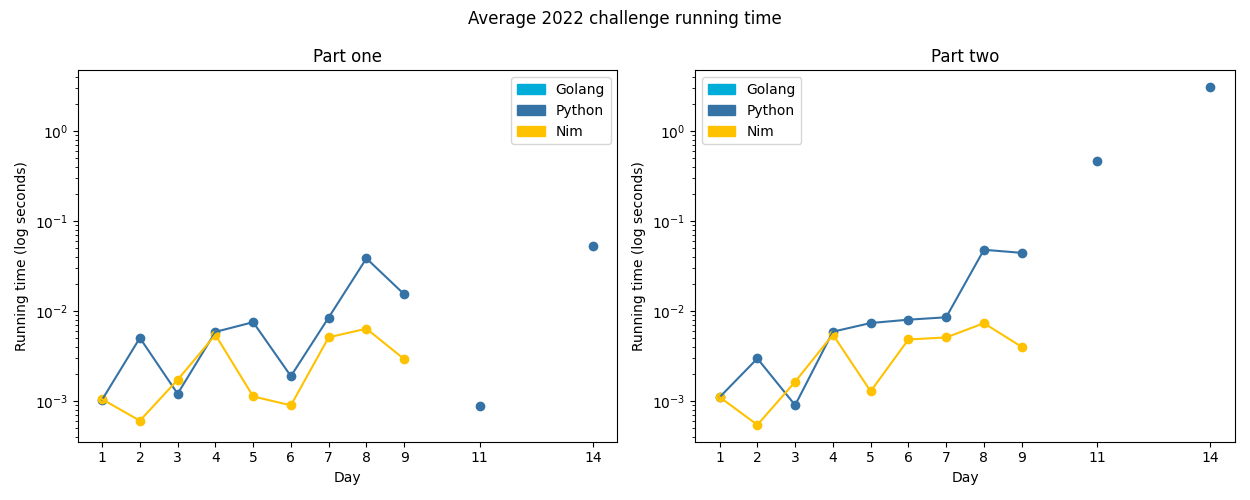
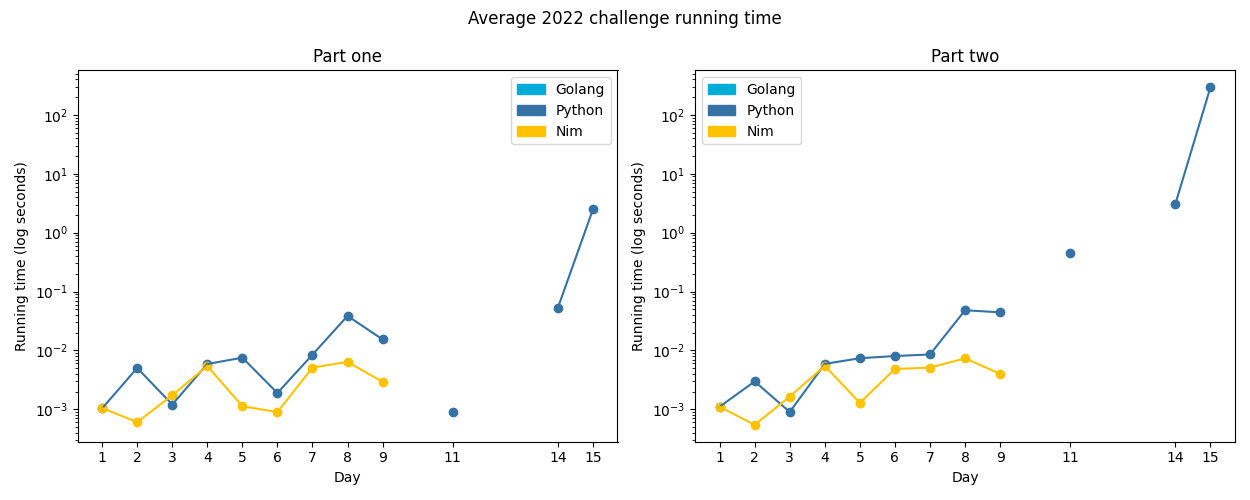
2022-15 py

diff --git a/challenges/2022/15-beaconExclusionZone/py/__init__.py b/challenges/2022/15-beaconExclusionZone/py/__init__.py
@@ -1,0 +1,143 @@
+from __future__ import annotations
+import sys
+from typing import *
+from aocpy import BaseChallenge, Vector, foldl
+import re
+from dataclasses import dataclass
+import portion as P
+
+
+@dataclass
+class Line:
+    m: int
+    c: int
+
+    @staticmethod
+    def from_points(a: Vector, b: Vector) -> Line:
+        calc_m = (b.y - a.y) / (b.x - a.x)
+        calc_c = a.y - (calc_m * a.x)
+        return Line(int(calc_m), int(calc_c))
+
+
+parse_re = re.compile(
+    r"Sensor at x=(-?\d+), y=(-?\d+): closest beacon is at x=(-?\d+), y=(-?\d+)"
+)
+
+
+def parse(instr: str) -> List[Tuple[Vector, Vector]]:
+    res = []
+    for line in instr.strip().splitlines():
+        sensor_x, sensor_y, beacon_x, beacon_y = map(int, parse_re.match(line).groups())
+        res.append(
+            (
+                Vector(sensor_x, sensor_y),
+                Vector(beacon_x, beacon_y),
+            )
+        )
+    return res
+
+
+def postprocess(
+    inp: List[Tuple[Vector, Vector]]
+) -> Tuple[
+    Dict[Vector, Tuple[Vector, Vector, Vector, Vector]],
+    Dict[Vector, Tuple[Line, Line, Line, Line]],
+]:
+    # 0 top, 1 left, 2 right, 3 bottom
+    sensor_points: Dict[Vector, Tuple[Vector, Vector, Vector, Vector]] = {}
+    sensor_lines: Dict[Vector, Tuple[Line, Line, Line, Line]] = {}
+
+    for (sensor, beacon) in inp:
+        mh = sensor.manhattan_distance(beacon)
+        points = (
+            Vector(sensor.x, sensor.y - mh),
+            Vector(sensor.x - mh, sensor.y),
+            Vector(sensor.x + mh, sensor.y),
+            Vector(sensor.x, sensor.y + mh),
+        )
+        sensor_points[sensor] = points
+
+        lines = (
+            Line.from_points(points[1], points[0]),
+            Line.from_points(points[3], points[1]),
+            Line.from_points(points[2], points[0]),
+            Line.from_points(points[2], points[3]),
+        )
+        sensor_lines[sensor] = lines
+
+    return sensor_points, sensor_lines
+
+
+class Challenge(BaseChallenge):
+    @staticmethod
+    def one(instr: str) -> int:
+        inp = parse(instr)
+        sensor_points, sensor_lines = postprocess(inp)
+
+        target_line = 10 if len(inp) == 14 else 2000000
+        ranges: List[Tuple[int, int]] = []
+
+        for (sensor, _) in inp:
+            points = sensor_points[sensor]
+            # print("polygon(", (", ".join(map(str, (points[0], points[1], points[3], points[2])))), ")")
+            lines = sensor_lines[sensor]
+            if points[0].y <= target_line <= points[3].y:
+                if target_line == points[1].y:
+                    ranges.append((points[2].x, points[1].x))
+                elif points[0].y <= target_line < points[1].y:
+                    ranges.append(
+                        (
+                            int((target_line - lines[2].c) / lines[2].m),
+                            int((target_line - lines[0].c) / lines[0].m),
+                        )
+                    )
+                else:
+                    ranges.append(
+                        (
+                            int((target_line - lines[3].c) / lines[3].m),
+                            int((target_line - lines[1].c) / lines[1].m),
+                        )
+                    )
+
+        s: Set[int] = set()
+        for x in ranges:
+            s = s.union(set(range(x[1], x[0] + 1)))
+
+        for (_, beacon) in inp:
+            if beacon.y == target_line:
+                s.discard(beacon.x)
+
+        return len(s)
+
+    @staticmethod
+    def two(instr: str) -> int:
+        inp = parse(instr)
+        sensor_points, sensor_lines = postprocess(inp)
+
+        max_coord = 20 if len(inp) == 14 else 4000000
+        line_ranges: List[P.Interval] = [P.empty() for _ in range(max_coord + 1)]
+
+        for (sensor, _) in inp:
+            p0, p1, p2, p3 = sensor_points[sensor]
+            l0, l1, l2, l3 = sensor_lines[sensor]
+
+            for y in range(max(p0.y, 0), min(p3.y, max_coord) + 1):
+                a: int
+                b: int
+                if y == sensor.y:
+                    a, b = p1.x, p2.x
+                elif p0.y <= y < p1.y:
+                    a, b = int((y - l0.c) / l0.m), int((y - l2.c) / l2.m)
+                else:
+                    a, b = int((y - l1.c) / l1.m), int((y - l3.c) / l3.m)
+
+                line_ranges[y] = line_ranges[y] | P.closed(
+                    max(a, 0), min(b, max_coord) + 1
+                )
+
+        for y in range(len(line_ranges)):
+            res = line_ranges[y]
+            if not res.atomic:
+                return (4000000 * res[0].upper) + y
+
+        return 0

diff --git a/lib/aocpy/__init__.py b/lib/aocpy/__init__.py
@@ -1,3 +1,4 @@
+from __future__ import annotations
 from typing import Any, TypeVar, Callable, Iterable
 
 
@@ -27,3 +28,50 @@ def foldl(p: Callable[[U, T], U], i: Iterable[T], start: U) -> U:
 
 def foldr(p: Callable[[U, T], U], i: Iterable[T], start: U) -> U:
     return foldl(p, reversed(i), start)
+
+
+class Vector:
+    x: int
+    y: int
+
+    def __init__(self, x: int, y: int):
+        self.x = x
+        self.y = y
+
+    @staticmethod
+    def _is_vector_tuple(o: Any) -> bool:
+        return type(o) == tuple and len(o) == 2 and type(o[0]) == int and type(o[1]) == int
+
+    def manhattan_distance(self, o: Vector) -> int:
+        return abs(self.x - o.x) + abs(self.y - o.y)
+
+    def __add__(self, o: Any) -> Vector:
+        if Vector._is_vector_tuple(o):
+            return Vector(self.x + o[0], self.y + o[1])
+        elif type(o) == Vector:
+            return Vector(self.x + o.x, self.y + o.y)
+        else:
+            raise ValueError(f"cannot add Vector and {type(o)}")
+
+    def __sub__(self, o: Any) -> Vector:
+        if Vector._is_vector_tuple(o):
+            return Vector(self.x - o[0], self.y - o[1])
+        elif type(o) == Vector:
+            return Vector(self.x - o.x, self.y - o.y)
+        else:
+            raise ValueError(f"cannot subtract Vector and {type(o)}")
+
+    def __eq__(self, o: Any) -> bool:
+        if Vector._is_vector_tuple(o):
+            return self.x == o[0] and self.y == o[1]
+        elif type(o) == Vector:
+            return self.x == o.x and self.y == o.y
+        else:
+            raise ValueError(f"cannot equate Vector and {type(o)}")
+
+    def __repr__(self) -> str:
+        # return f"Vector(x={self.x}, y={self.y})"
+        return f"({self.x}, {self.y})"
+
+    def __hash__(self):
+        return hash(f"{self.x},{self.y}")

diff --git a/challenges/2022/14-regolithReservoir/py/__init__.py b/challenges/2022/14-regolithReservoir/py/__init__.py
@@ -35,14 +35,14 @@ def parse(instr: str) -> Tuple[Scan, Vector, Vector]:
                 f = lambda x, y: x + y
                 if dy < 0:
                     f = lambda x, y: x - y
-                
+
                 for j in range(abs(dy) + 1):
                     res[(points[i][0], f(points[i][1], j))] = State.WALL
             else:
                 f = lambda x, y: x + y
                 if dx < 0:
                     f = lambda x, y: x - y
-                
+
                 for j in range(abs(dx) + 1):
                     res[(f(points[i][0], j), points[i][1])] = State.WALL
 
@@ -51,16 +51,11 @@ def parse(instr: str) -> Tuple[Scan, Vector, Vector]:
     max_x = max(keys, key=lambda x: x[0])[0]
     min_y = min(keys, key=lambda x: x[1])[1]
     max_y = max(keys, key=lambda x: x[1])[1]
-    
+
     return res, (min_x, min_y), (max_x, max_y)
 
 
-def is_out_of_bounds(v: Vector, min_v: Vector, max_v: Vector) -> bool:
-    return not ((min_v[0] <= v[0] <= max_v[0]) and (0 <= v[1] <= max_v[1]))
-
-
 class Challenge(BaseChallenge):
-
     @staticmethod
     def one(instr: str) -> int:
         inp, min_pos, max_pos = parse(instr)
@@ -68,7 +63,9 @@ class Challenge(BaseChallenge):
         cursor = (500, 0)
         grains = 0
 
-        while not is_out_of_bounds(cursor, min_pos, max_pos):
+        while (min_pos[0] <= cursor[0] <= max_pos[0]) and (
+            0 <= cursor[1] <= max_pos[1]
+        ):
             x, y = cursor
 
             if inp.get((x, y + 1)) is None:
@@ -91,7 +88,7 @@ class Challenge(BaseChallenge):
 
     @staticmethod
     def two(instr: str) -> int:
-        inp, min_pos, max_pos = parse(instr)
+        inp, _, max_pos = parse(instr)
 
         max_pos = (max_pos[0], max_pos[1] + 2)
 

diff --git a/challenges/2022/README.md b/challenges/2022/README.md
@@ -28,4 +28,4 @@ Solutions to the [2022 Advent of Code](https://adventofcode.com/2022).
 | 12 - Hill Climbing Algorithm        | ☆ ☆                |  |  |
 | 13 - Distress Signal                | ☆ ☆                |  |  |
 | 14 - Regolith Reservoir             | ★ ★                | [Python](14-regolithReservoir/py) | Simulating falling sand |
-
+| 15 - Beacon Exclusion Zone          | ★ ★                | [Python](15-beaconExclusionZone/py) | Searching through a 4000000^2 size grid for a literal single empty spot |

diff --git a/challenges/2022/15-beaconExclusionZone/README.md b/challenges/2022/15-beaconExclusionZone/README.md
@@ -1,0 +1,1 @@
+# [Day 15: Beacon Exclusion Zone](https://adventofcode.com/2022/day/15)
